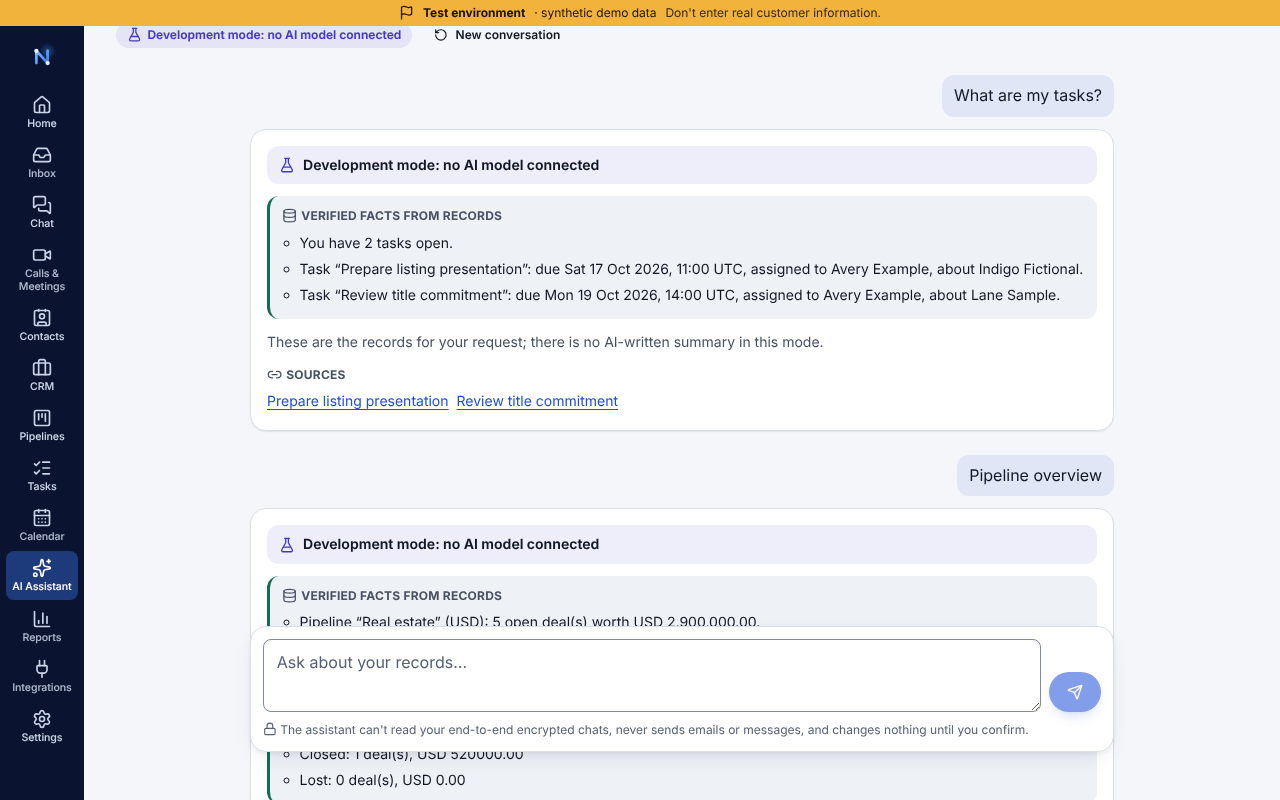
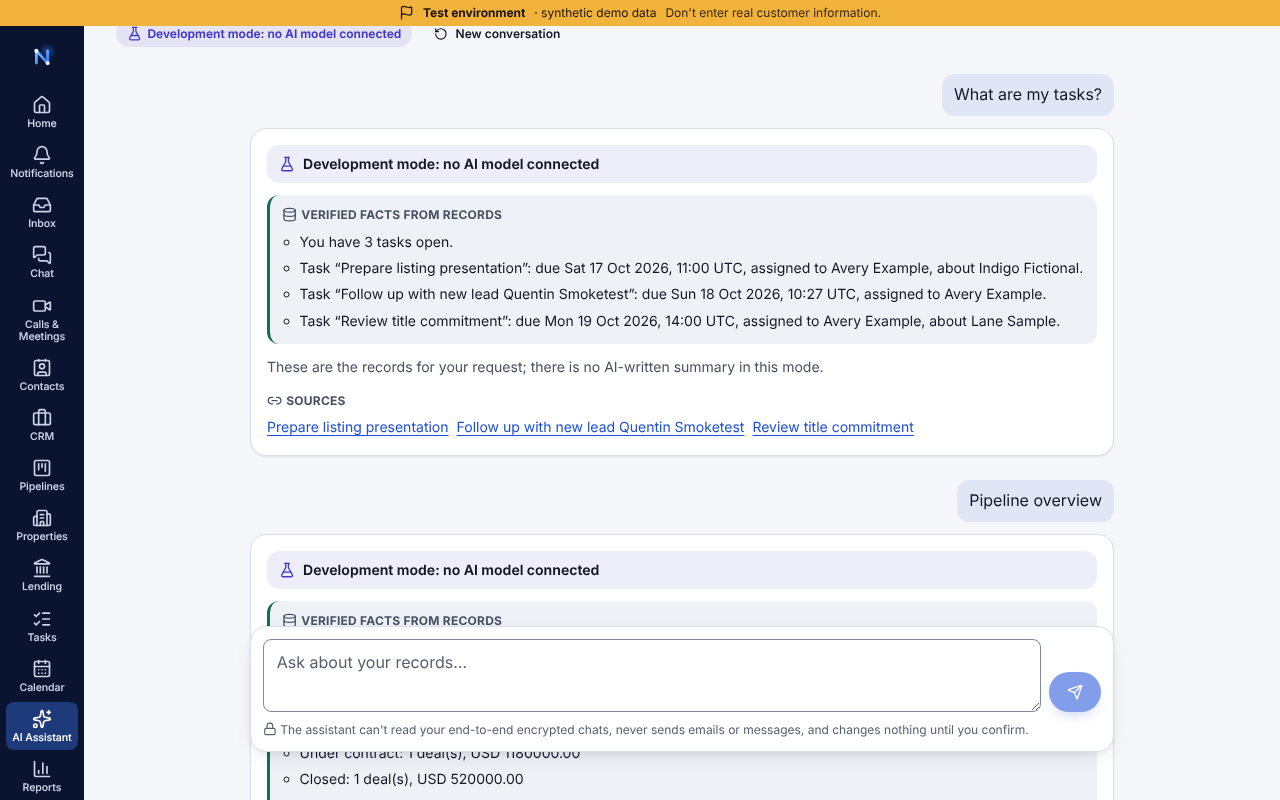
Nexus B3: final test results after the verticals and inbox merges, refreshed screenshots [skip ci]
Claude-Session: https://claude.ai/code/session_01DBk34rqSboXD3sb22NcAqJ

diff --git a/docs/nexus/CLAUDE-CONNECTOR.md b/docs/nexus/CLAUDE-CONNECTOR.md
@@ -271,8 +271,8 @@ messages are copied, at most 18,000 characters. The audit records the count, nev
 | `tests/test_nexus_assistant_integrations.py` | 11 passed | Gmail/Slack/HighLevel tools on B2's **fake providers**: personal mail owner-only, other-workspace IDs, untrusted fencing, injected email triggers nothing (dev and mocked model), drafts two-phase and never sent, failure recorded, MCP read and confirm |
 | `tests/test_nexus_isolation.py` (AI part) | passed | AI endpoints and objects of another workspace are 404, chat context and Save to record reject foreign IDs, tools never return other workspaces' rows |
 | `tests/deploy/test_render_apps.py::TestNexusAi` | 3 passed | `app.env` settings, no key in it, edge 404 when off, invalid settings refused |
-| Whole portal suite | 805 passed, 1 failed | The failure is `test_nexus_meetings_reports.py::test_home_sections_and_connected_services_slot` (the verticals team's test still expects no connected-services list, which the integrations team now provides). It's not in B3 code and was reported to main |
-| SPA `npm test` (vitest, jsdom) | 158 passed | Includes `test/unit/assistant.test.tsx` (13): history building, facts vs AI text, dev label, source links, proposals and Confirm, Save to record payloads and message list, connector steps, the confirmation message with its draft link |
+| Whole portal suite | 807 passed | At `f704d66` plus the B3 commits. After the integrations team's `cc48713`/`bac4609`, the B3 suites with `test_nexus_isolation.py`, `test_nexus_integrations_isolation.py` and `test_nexus_auth.py` passed again (391) |
+| SPA `npm test` (vitest, jsdom) | 168 passed | Includes `test/unit/assistant.test.tsx` (13): history building, facts vs AI text, dev label, source links, proposals and Confirm, Save to record payloads and message list, connector steps, the confirmation message with its draft link |
 | SPA `typecheck`, `lint`, `build` | clean | |
 
 **Browser smoke** (Playwright against the slot-3 dev servers, development provider):
@@ -305,8 +305,6 @@ use a mock HTTP session.
 * Connect a real Claude (claude.ai and Claude Code) to a deployed test server with a public
   certificate, and record the result.
 * Run the in-app assistant against the Anthropic API with a real key and a current model ID.
-* The SPA link `#/inbox/<id>` in email results assumes the route of the inbox area, which
-  isn't built yet. It is documented for the integrations team.
 * Token refresh through the SDK (it refreshes only after expiry) and the 403 step-up flow are
   covered by pytest, not by the SDK script.
 * MCP `resources`, `prompts` and server-to-client requests are not offered.

diff --git a/docs/nexus/IMPLEMENTATION-NOTES.md b/docs/nexus/IMPLEMENTATION-NOTES.md
@@ -204,12 +204,12 @@ What was built is described in [CLAUDE-CONNECTOR.md](CLAUDE-CONNECTOR.md) and th
   decrypted text messages, not a selection mode in Lumen's timeline. That would have meant
   editing shared Lumen chat components.
 * **SPA routes of other teams' records** in tool results: `#/properties/<id>` and
-  `#/lending/<id>` match the verticals areas (`995fd70`). `#/inbox/<id>` is still an assumption
-  until the inbox area exists. They are registered with `register_link` in
-  `apps/crm/ai_tools_verticals.py` and `apps/integrations/ai_tools.py`.
+  `#/lending/<id>` match the verticals areas (`995fd70`), and `#/inbox/<id>` matches the inbox
+  area (`cc48713`), which also passes `inbox_item_id` to "Ask AI". They are registered with
+  `register_link` in `apps/crm/ai_tools_verticals.py` and `apps/integrations/ai_tools.py`.
 * **Stale vitest cache**: after pulling new area files, `vitest` in an existing checkout still
   listed the old areas. `node_modules/.vitest-cache` had kept the transformed `registry.ts` with
-  its old `import.meta.glob` expansion. Deleting that folder fixed it (158 passed).
+  its old `import.meta.glob` expansion. Deleting its files fixed it (`find services/chat/node_modules/.vitest-cache -maxdepth 1 -type f -delete`).
 * **AI-suggested next steps** (`suggest_next_step`) use `meetings.propose_action_item(source="ai_suggestion")`,
   as main asked. The proposed action item is itself the proposal a person confirms in Nexus;
   there is no extra PendingAction.
